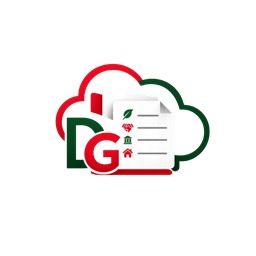
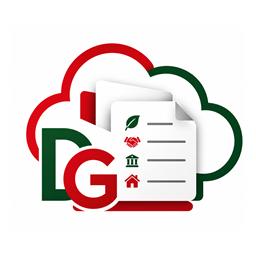
Atualiza icone do app Windows

Changed region(s): [[0.0938, 0.1562, 0.9688, 0.8438]]

diff --git a/index.html b/index.html
@@ -39,7 +39,7 @@
           <button class="primary" id="login-submit">Entrar</button>
         </form>
       </div>
-      <a class="login-download" id="desktop-download-link" href="downloads/DocGestor-by-Carminatti-1.0.1-x64.exe" download>
+      <a class="login-download" id="desktop-download-link" href="downloads/DocGestor-by-Carminatti-1.0.2-x64.exe" download>
         Baixar app Windows
       </a>
     </section>

diff --git a/script.js b/script.js
@@ -10,7 +10,7 @@ const SESSION_USER_KEY = "docgestor.sessionUser";
 const SESSION_VIEW_KEY = "docgestor.sessionView";
 const SESSION_LICENSE_STATUS_KEY = "docgestor.licenseStatus";
 const APP_VERSION_MANIFEST_URL = "downloads/app-version.json";
-const APP_INSTALLER_URL = "downloads/DocGestor-by-Carminatti-1.0.1-x64.exe";
+const APP_INSTALLER_URL = "downloads/DocGestor-by-Carminatti-1.0.2-x64.exe";
 
 const titles = {
   home: "Home",